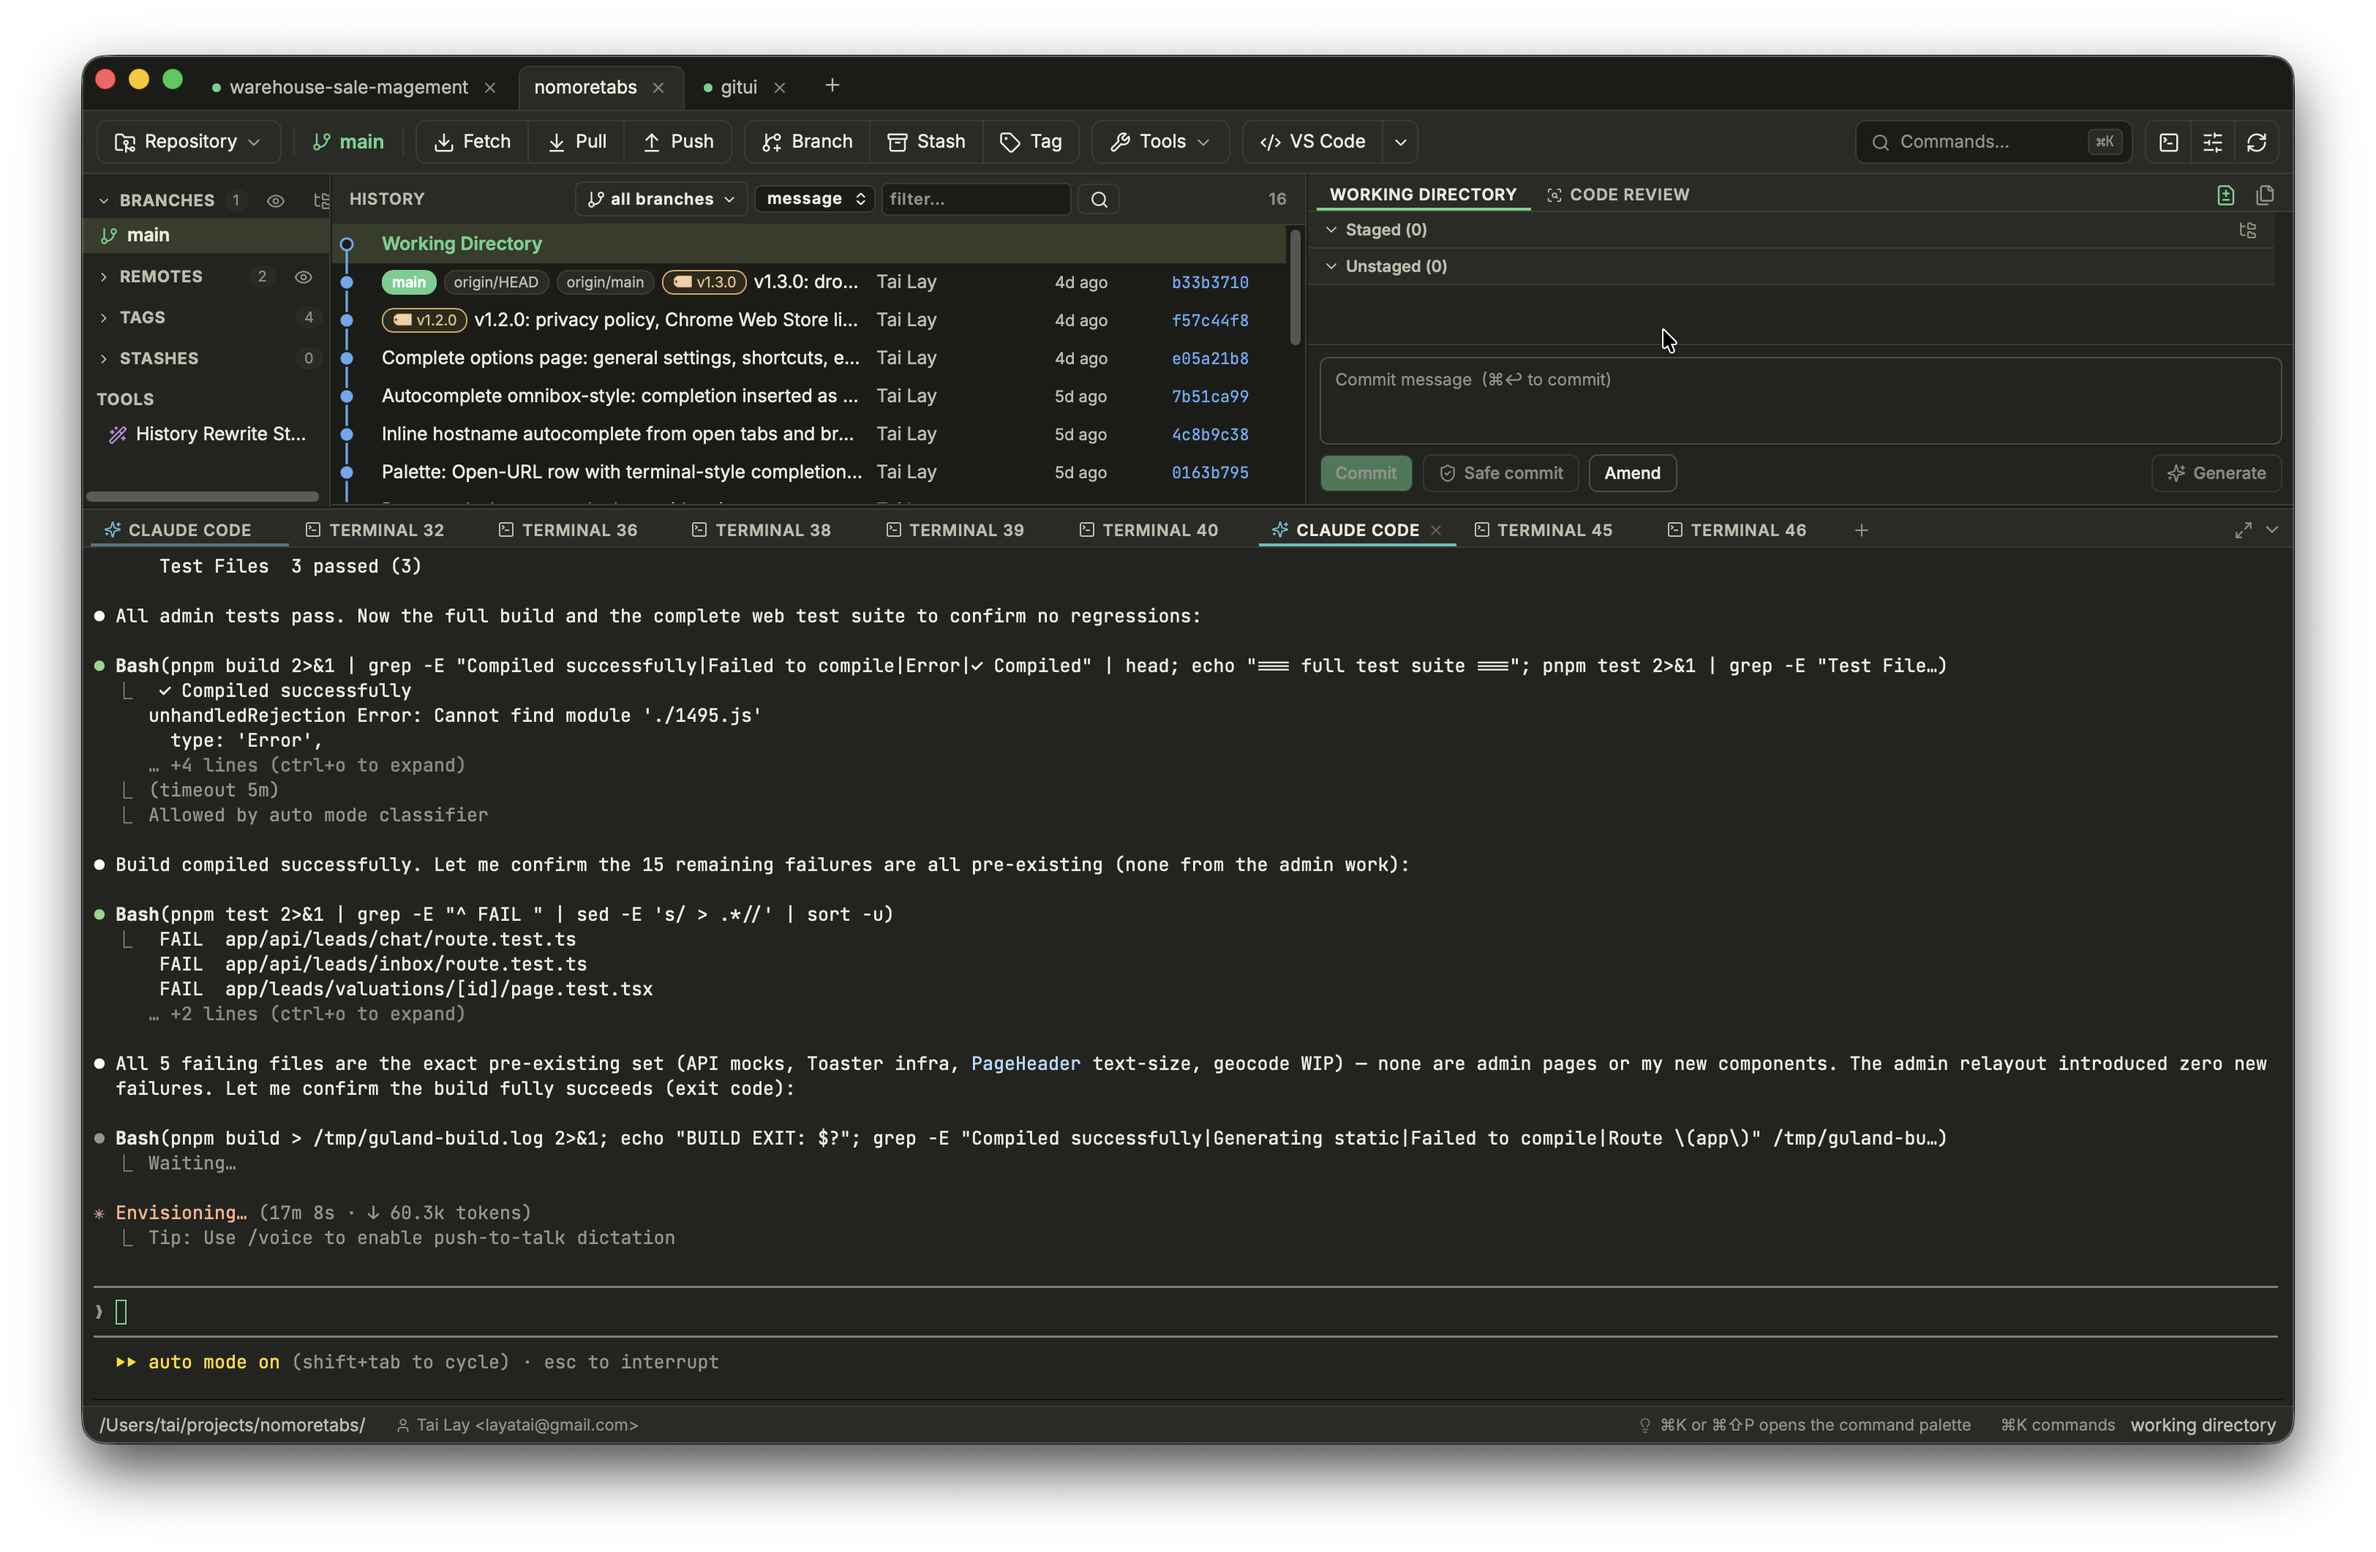
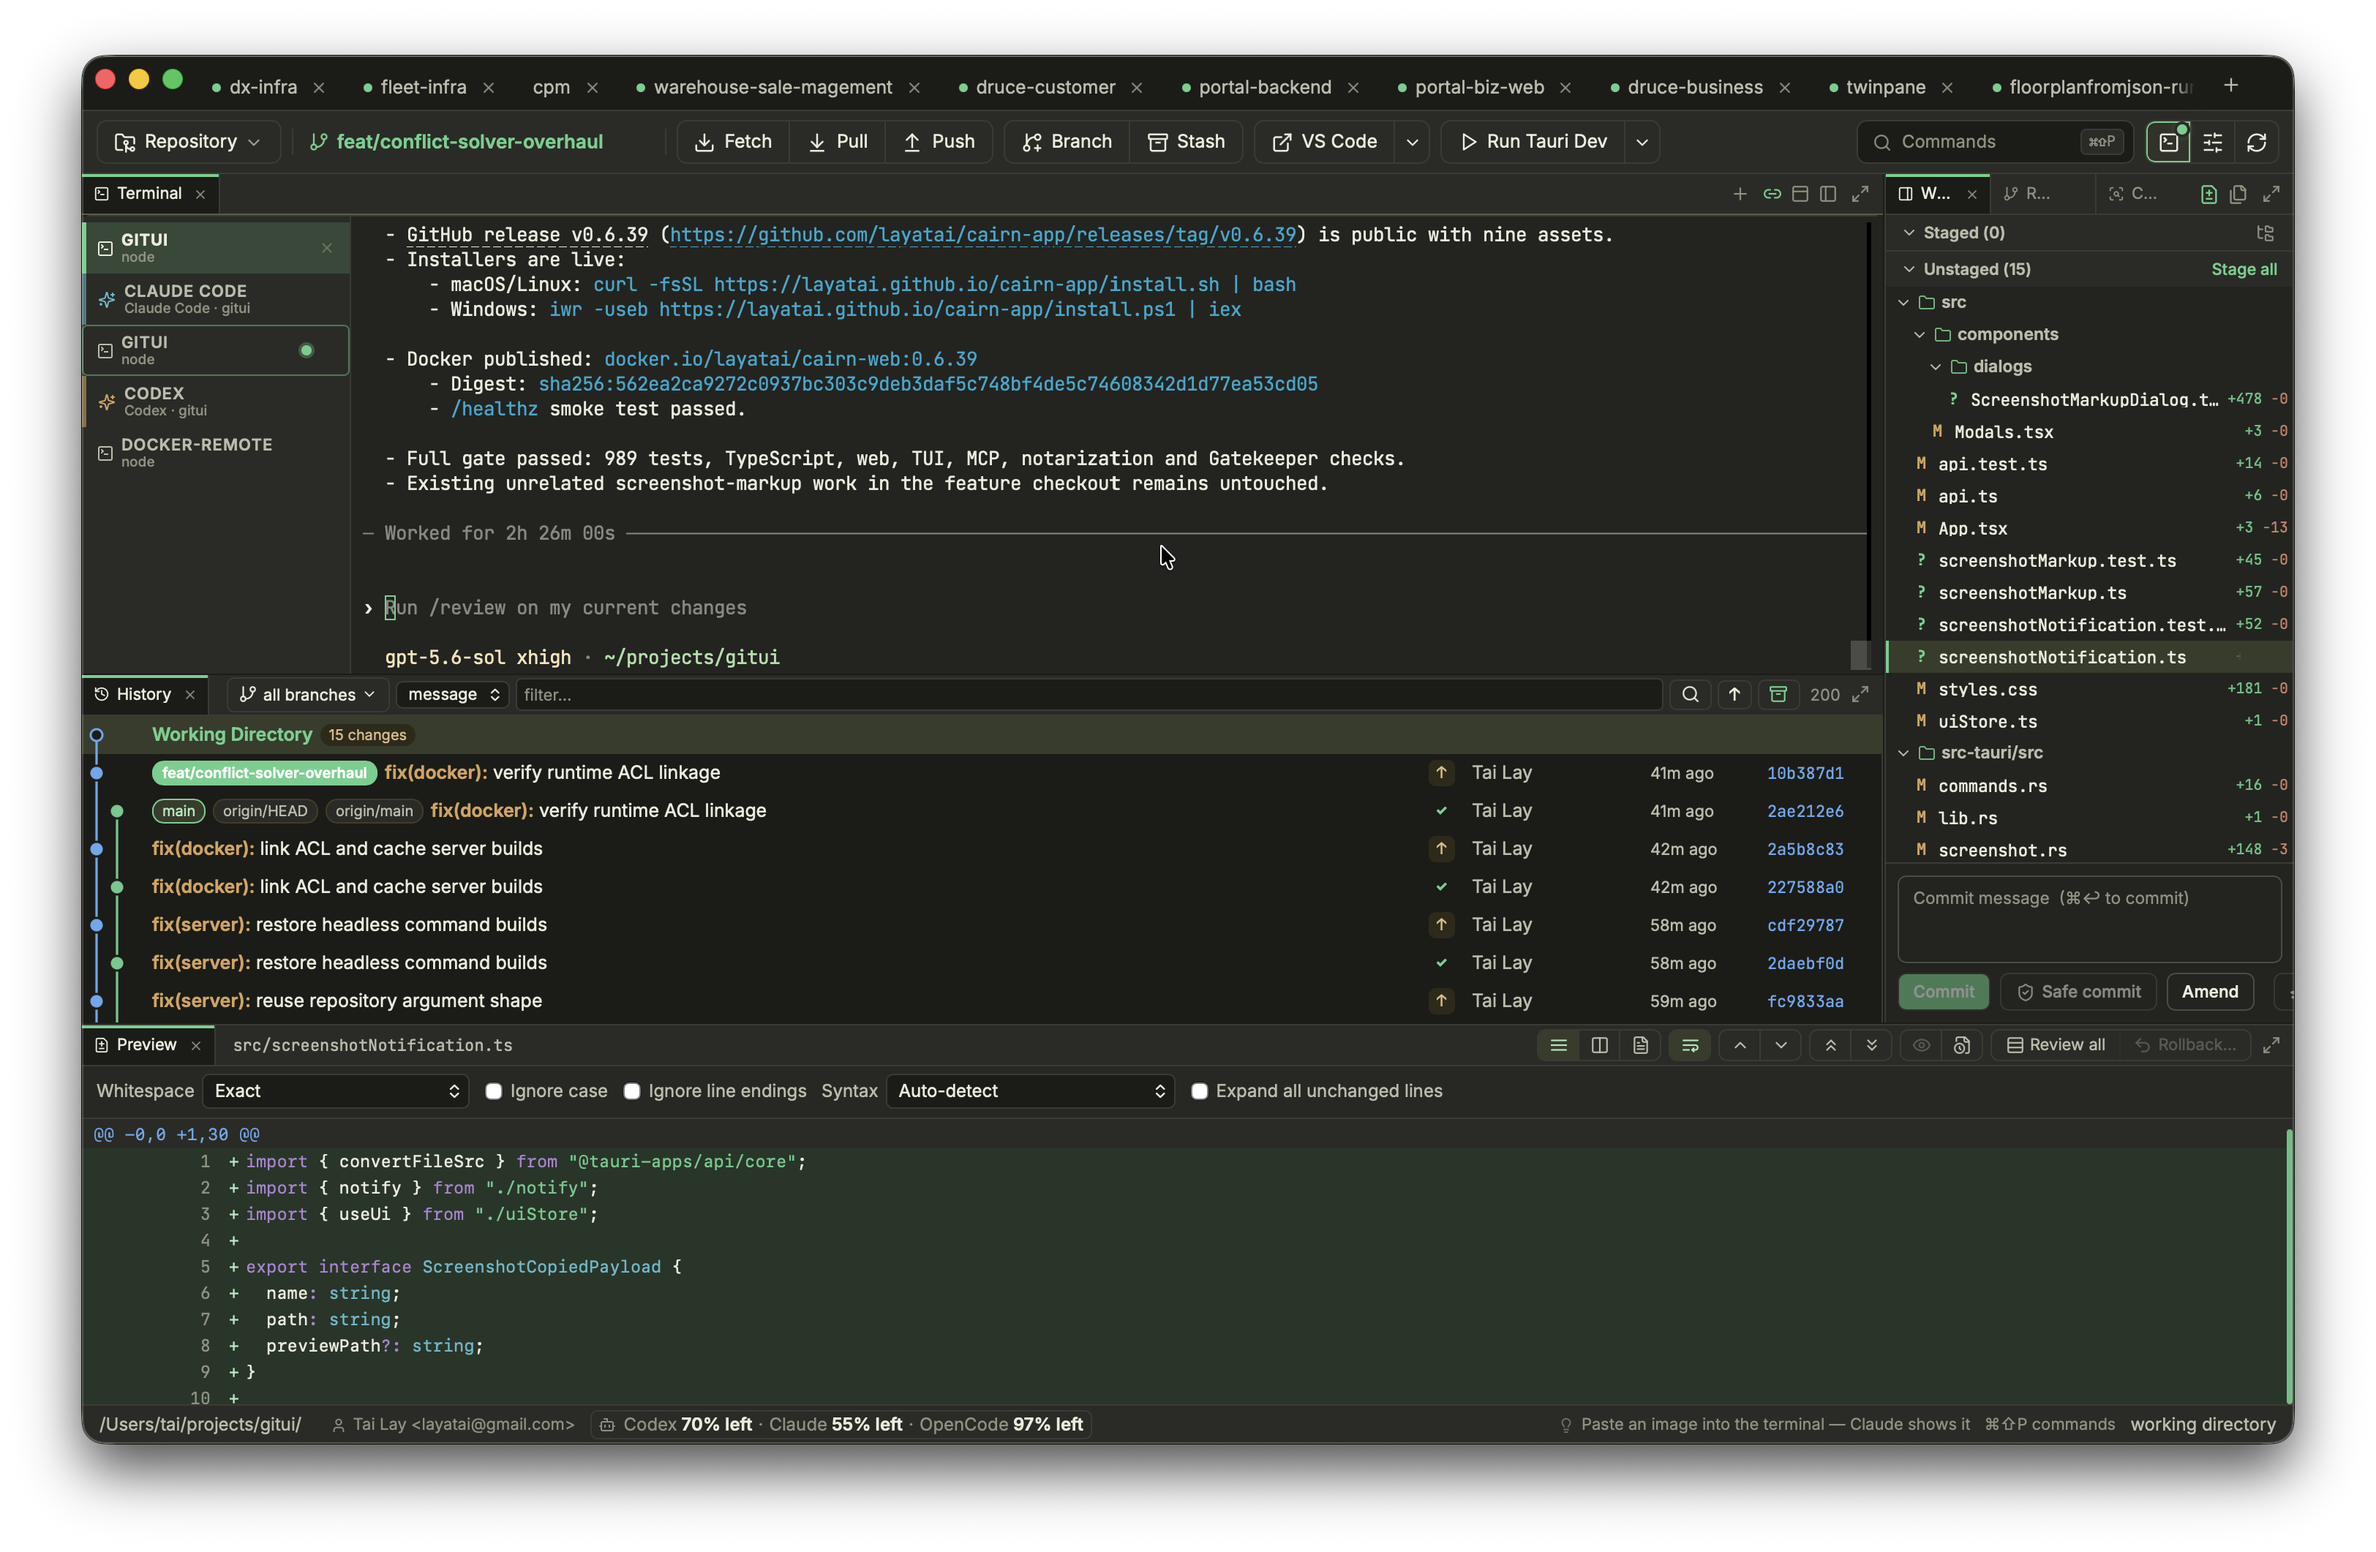
docs: add desktop and TUI screenshots

diff --git a/README.md b/README.md
@@ -9,7 +9,19 @@ packages, Docker image, and the [Cairn website](https://layatai.github.io/cairn-
 [Download the latest release](https://github.com/layatai/cairn-app/releases/latest)
 · [Interactive tour](https://layatai.github.io/cairn-app/)
 
-![Cairn](site/screenshot.png)
+## Screenshots
+
+### Desktop app
+
+![Cairn desktop app with terminal sessions, repository history, working tree, and diff preview](site/screenshot.png)
+
+### Standalone TUI
+
+![Cairn TUI repository workspace with branches, diff, history, changes, terminal sessions, and AI agents](site/screenshots/tui-workspace.png)
+
+| Attached diff review | Attached AI-agent session |
+|---|---|
+| ![Cairn TUI reviewing an attached agent diff](site/screenshots/tui-diff-review.png) | ![Cairn TUI with an attached Codex session and working-tree changes](site/screenshots/tui-agent-session.png) |
 
 ## Downloads
 
